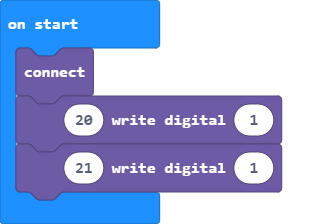
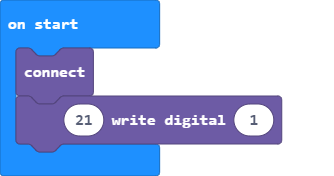
Update main.blocks, main.ts, custom.ts

diff --git a/custom.ts b/custom.ts
@@ -126,9 +126,7 @@ namespace functional{
                 basic.pause(10)
                 while (true) {
                     try {
-                        let i2cBuffer = pins.i2cReadBuffer(93, 1,false)
-                        serial.writeLine("NUMBER:")
-                        serial.writeNumber(i2cBuffer.getNumber(NumberFormat.Int8LE, 0))
+                        pins.i2cReadBuffer(93, 1)
                     }
                     catch (error){
                         serial.writeLine("Error2:");
@@ -148,6 +146,7 @@ namespace functional{
             pins.setPull(DigitalPin.P8, PinPullMode.PullNone);
             basic.pause(200);
             control.reset();
+            console.log("disabled")
         }
 
 
@@ -155,23 +154,22 @@ namespace functional{
             let a = Buffer.fromArray([1, p, q, s]);
             if (d !== null){
                 let b = Buffer.fromArray([Math.round(d)]);
-                Buffer.concat([a,b]);
-                //a.concat(b);
+                a = Buffer.concat([a,b]);
             }
             if (f !== null){
                 let b = Buffer.fromArray([Math.round(f)]);
-                Buffer.concat([a,b]);
-                //a.concat(b);
+                a = Buffer.concat([a,b]);
             }         
             try{
                 pins.i2cWriteBuffer(93, a)
                 let e = Buffer.fromArray([0,c])
                 pins.i2cWriteBuffer(93, e)
-                c = 0x01
+                c = 1
                 while ( c !== 0){
-                    let b = Buffer.fromArray([0x00])
+                    let b = Buffer.fromArray([0])
                     pins.i2cWriteBuffer(93, b)
                     c = pins.i2cReadNumber(93, NumberFormat.Int8LE)
+                    console.log(c)
                 }
             }
             catch{
@@ -185,5 +183,10 @@ namespace functional{
             if (s > 1 || s < 0){s = 4} 
             else if (s === 0){s = 2}
             send_c(p, s)
+        }
+
+        //% block="%pin tone freq %f dur %d "
+        export function tone(p: number, f: number, d: number): void{
+            send_c(p, 13, 33, 0, d, f);
         }
 }

diff --git a/main.ts b/main.ts
@@ -1,3 +1,2 @@
 functional.connect()
-functional.write_digital(20, 1)
 functional.write_digital(21, 1)
